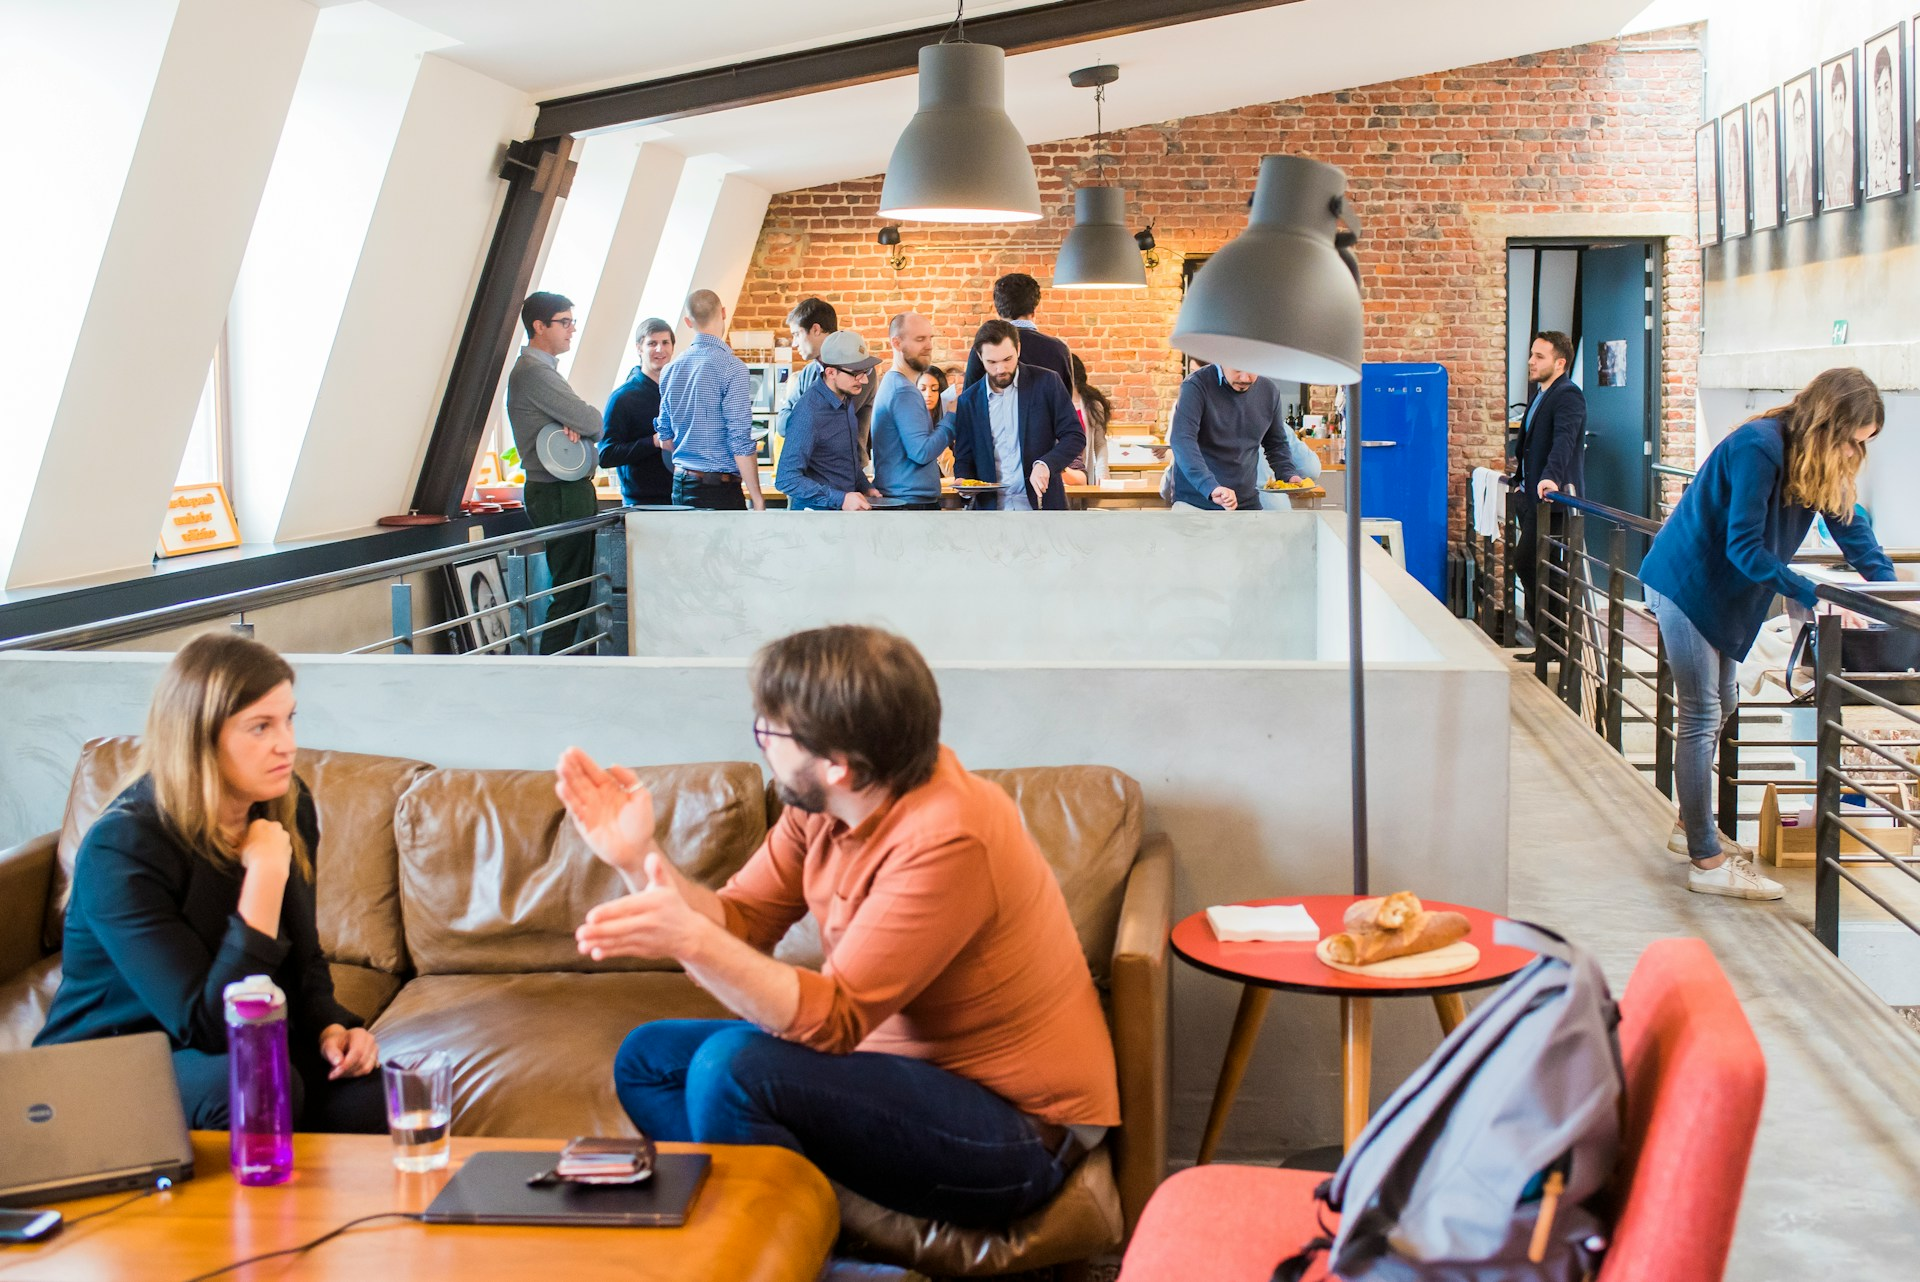
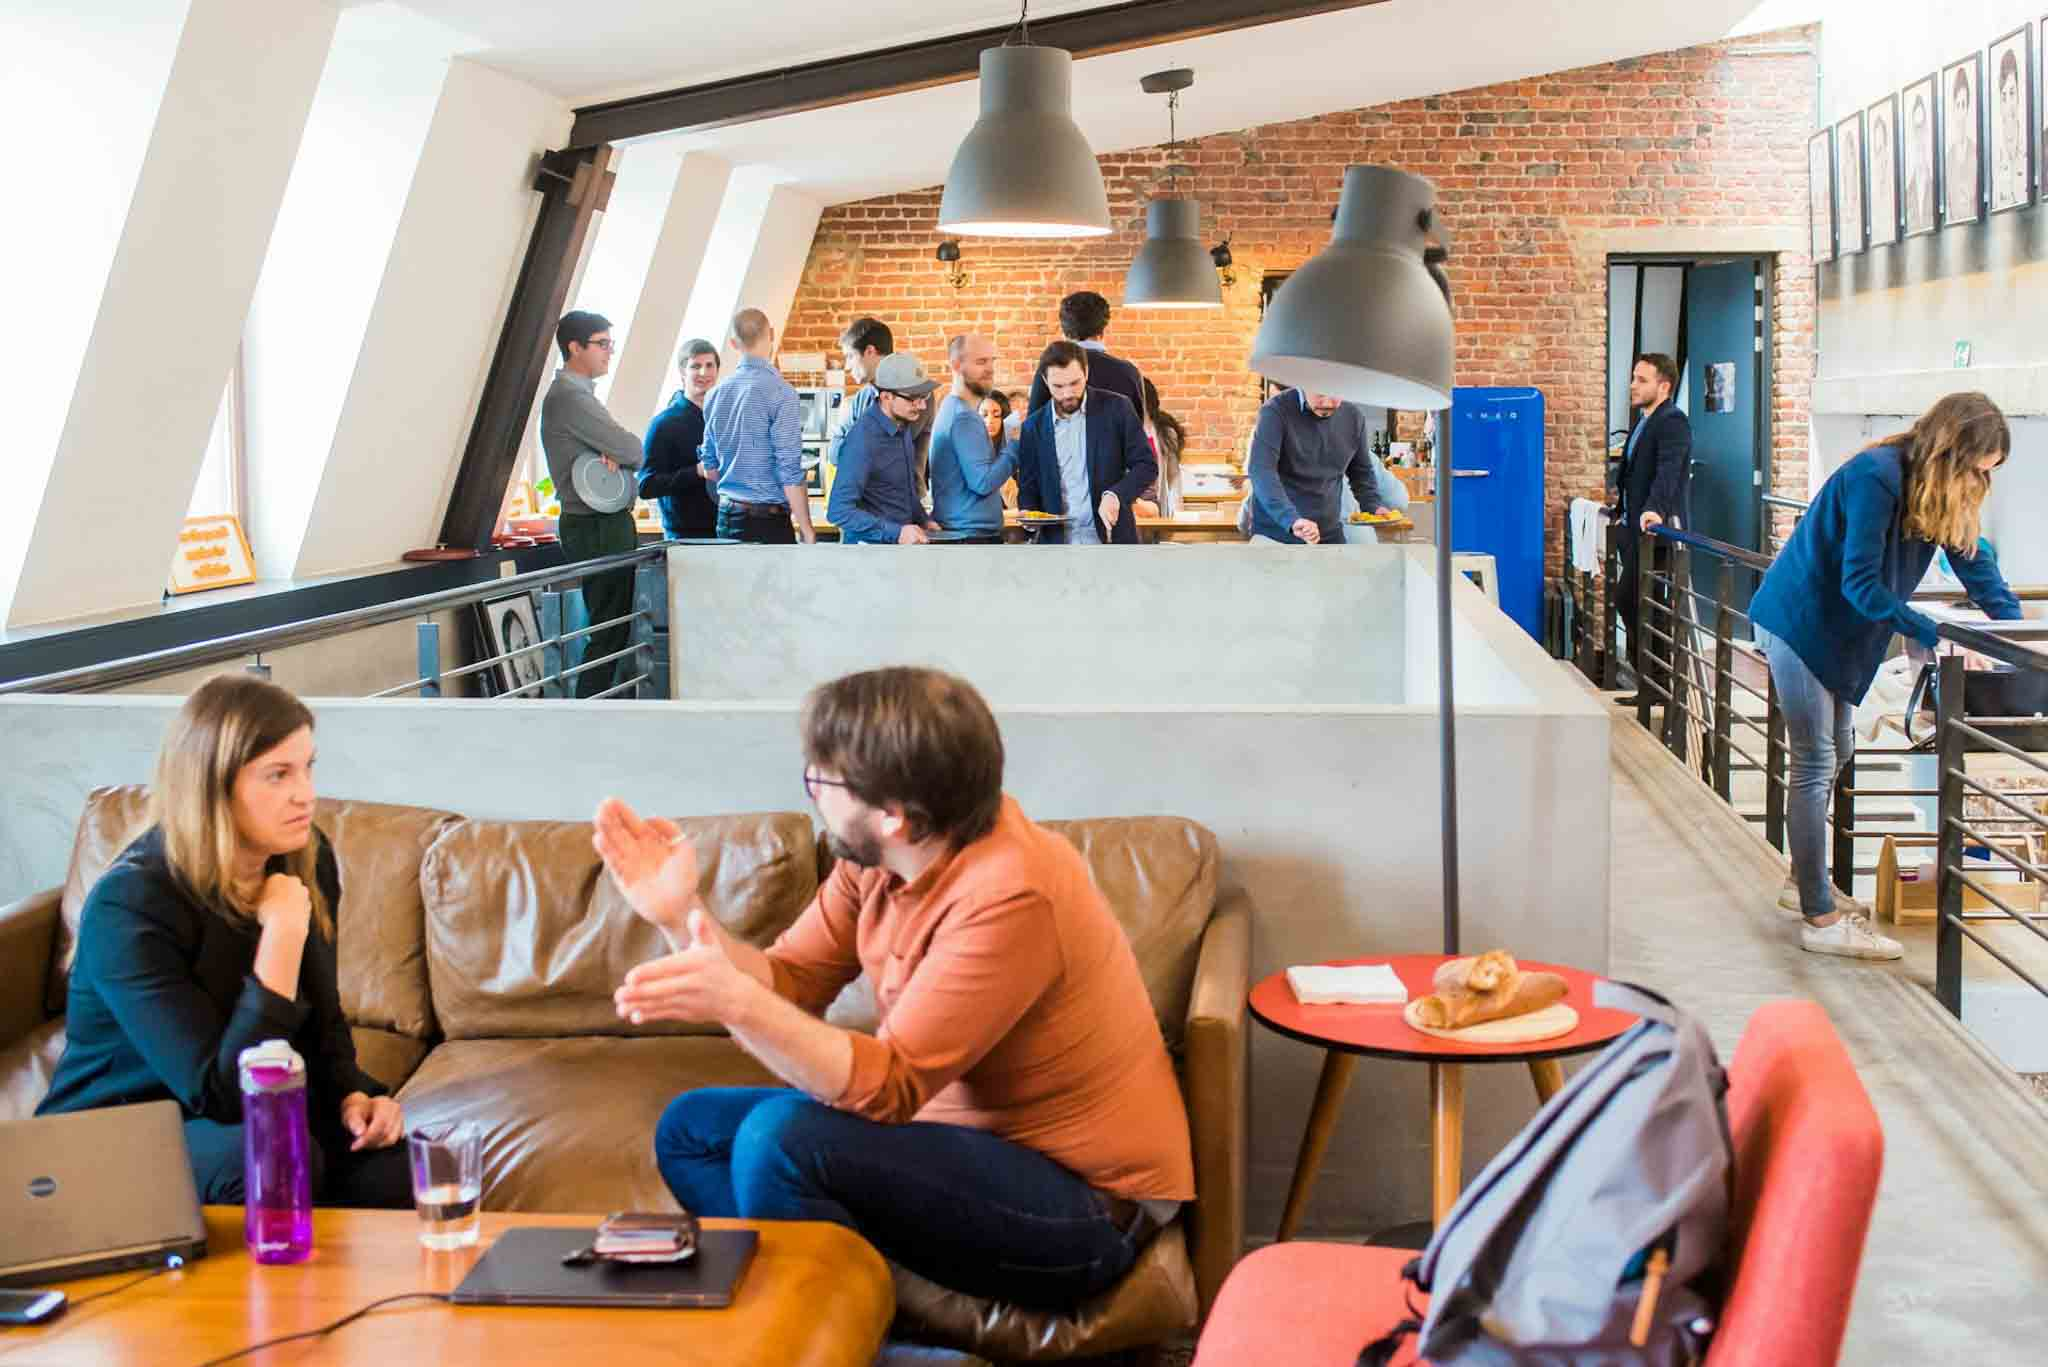
compress images

diff --git a/enhancements.html b/enhancements.html
@@ -160,6 +160,9 @@
             <li>
               Implemented using <strong>CSS Transition</strong> and <strong>Transform</strong>.
             </li>
+            <li>
+              Referenced from <a href="https://tnqan.github.io/Literary-Dreams/" target="blank">Literary Dreams</a>.
+            </li>
           </ul>
 
           <div class="enhancement__direct">
